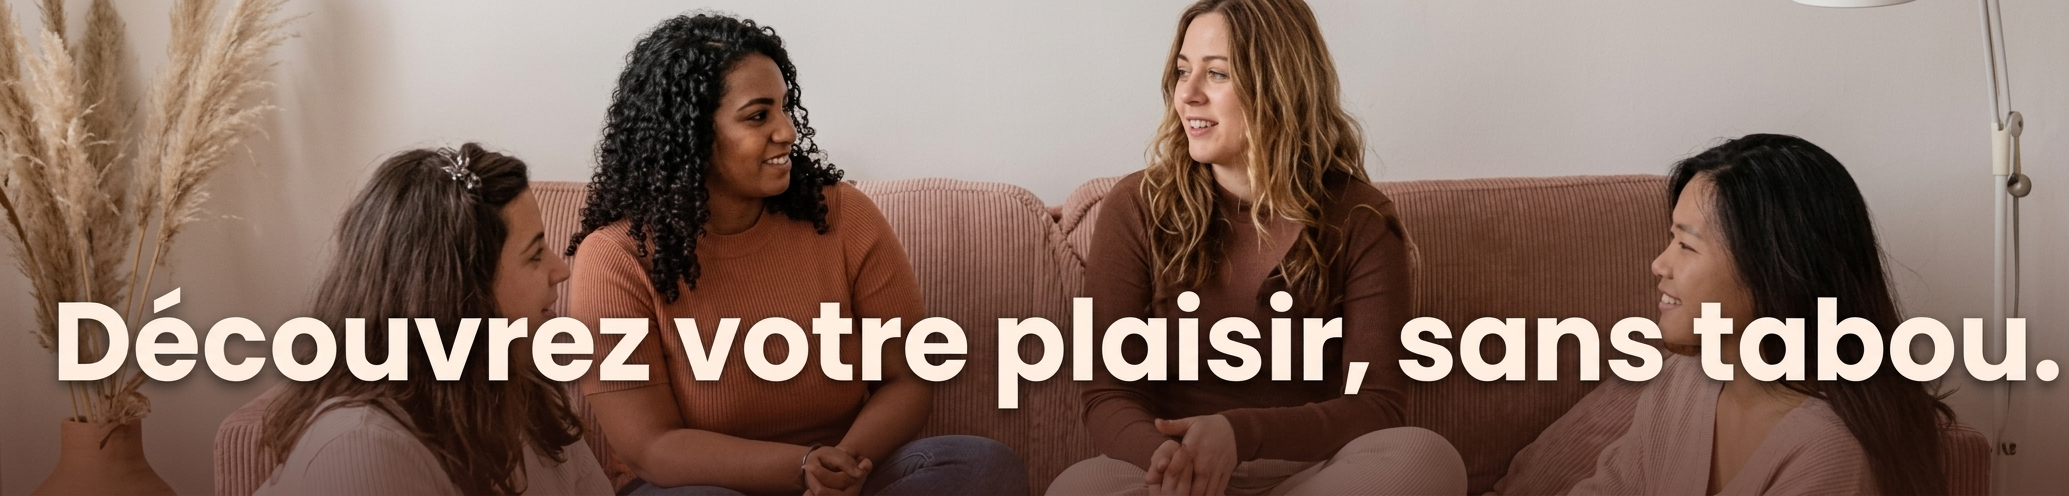
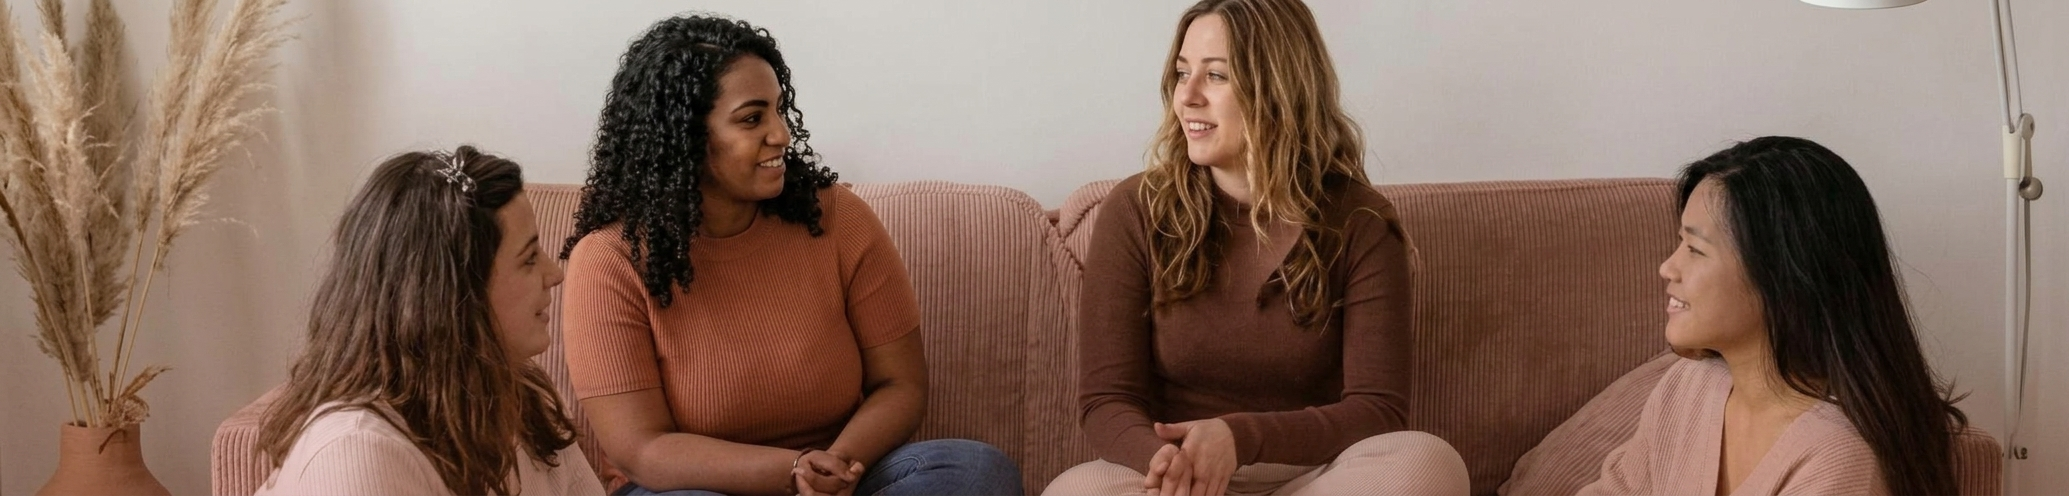
feat: update background color and improve hero section layout

diff --git a/src/app/page.js b/src/app/page.js
@@ -8,90 +8,168 @@ export default function Home() {
   const [isMenuOpen, setIsMenuOpen] = useState(false);
 
   return (
-    <div className="min-h-screen bg-creme text-chocolat font-sans selection:bg-terracotta selection:text-white">
+    <div className="min-h-screen text-chocolat font-sans selection:bg-terracotta selection:text-white">
       
-      {/* HEADER */}
-      <header className="bg-creme border-b border-terracotta/20 sticky top-0 z-50">
-        <div className="max-w-7xl mx-auto px-4 py-4 flex items-center justify-between">
+     {/* HEADER AVEC PREMIER LIEN ALIGNÉ SUR LA PHOTO DU HERO */}
+      <header className="bg-[#D8836A] text-white sticky top-0 z-50 transition-all duration-300">
+        <div className="max-w-7xl mx-auto px-4 py-5 flex items-center justify-between">
           
-          {/* Logo / Nom minimaliste dans le header */}
-          <Link href="/" className="text-xl font-extrabold text-chocolat tracking-tight">
-            {`JE NE JOUIS PAS`}<span className="text-terracotta">{`.`}</span>
-          </Link>
+          {/* Grille interne pour forcer l'alignement exact avec le Hero (3 cols à gauche pour le logo) */}
+          <div className="grid grid-cols-1 lg:grid-cols-12 w-full items-center gap-6">
+            
+            {/* Logo dans les 3 premières colonnes (aligné avec le titre "JE NE JOUIS PAS") */}
+            <div className="lg:col-span-3 flex justify-between lg:justify-start items-center">
+              <Link href="/" className="text-2xl md:text-3xl font-extrabold text-white tracking-tight font-display hover:opacity-90 transition">
+                {`JNJP`}<span className="text-chocolat">{`.`}</span>
+              </Link>
 
-          {/* Navigation Desktop */}
-          <nav className="hidden md:flex items-center space-x-8 text-sm font-medium text-chocolat">
-            <Link href="#articles" className="hover:text-terracotta transition">{`Articles`}</Link>
-            <Link href="#ressources" className="hover:text-terracotta transition">{`Ressources`}</Link>
-            <Link href="#communaute" className="hover:text-terracotta transition">{`Communauté`}</Link>
-            <Link href="#apropos" className="hover:text-terracotta transition">{`À Propos`}</Link>
-            <span className="cursor-pointer hover:text-terracotta transition flex items-center space-x-1">
-              <span>{`Recherche`}</span>
-              <Search className="w-3.5 h-3.5" />
-            </span>
-          </nav>
+              {/* Bouton Menu Mobile */}
+              <button 
+                className="lg:hidden text-white p-2"
+                onClick={() => setIsMenuOpen(!isMenuOpen)}
+                aria-label="Menu"
+              >
+                {isMenuOpen ? <X className="w-6 h-6" /> : <Menu className="w-6 h-6" />}
+              </button>
+            </div>
 
-          {/* Bouton Inscription */}
-          <div className="hidden md:flex items-center">
-            <button className="bg-terracotta hover:bg-[#A8533B] text-white text-sm px-6 py-2.5 rounded-full font-medium transition shadow-sm">
-              {`S'inscrire`}
-            </button>
+            {/* Navigation & Bouton dans les 9 colonnes suivantes (alignés avec la photo du Hero) */}
+            <div className="hidden lg:col-span-9 lg:flex items-center justify-between">
+              
+              {/* Navigation Desktop */}
+              <nav className="flex items-center space-x-12 text-sm font-medium text-white/90">
+                <Link href="#articles" className="hover:text-chocolat transition duration-200 tracking-wide">{`Articles`}</Link>
+                <Link href="#ressources" className="hover:text-chocolat transition duration-200 tracking-wide">{`Ressources`}</Link>
+                <Link href="#communaute" className="hover:text-chocolat transition duration-200 tracking-wide">{`Communauté`}</Link>
+                <Link href="#apropos" className="hover:text-chocolat transition duration-200 tracking-wide">{`À Propos`}</Link>
+                <span className="cursor-pointer hover:text-chocolat transition duration-200 flex items-center space-x-1.5 tracking-wide">
+                  <span>{`Recherche`}</span>
+                  <Search className="w-3.5 h-3.5" />
+                </span>
+              </nav>
+
+              {/* Bouton Inscription */}
+              <div>
+                <button className="bg-terracotta hover:bg-[#C86D51] text-white text-sm px-7 py-2.5 rounded-full font-semibold transition-all duration-300 transform hover:-translate-y-0.5 hover:shadow-lg active:translate-y-0 border border-white/20">
+                  {`S'inscrire`}
+                </button>
+              </div>
+
+            </div>
+
           </div>
 
-          {/* Bouton Menu Mobile */}
-          <button 
-            className="md:hidden text-chocolat p-2"
-            onClick={() => setIsMenuOpen(!isMenuOpen)}
-            aria-label="Menu"
-          >
-            {isMenuOpen ? <X className="w-6 h-6" /> : <Menu className="w-6 h-6" />}
-          </button>
         </div>
 
         {/* Menu Mobile */}
         {isMenuOpen && (
-          <div className="md:hidden bg-creme border-t border-terracotta/20 px-4 py-6 space-y-4 shadow-lg">
-            <Link href="#articles" className="block text-chocolat font-medium">{`Articles`}</Link>
-            <Link href="#ressources" className="block text-chocolat font-medium">{`Ressources`}</Link>
-            <Link href="#communaute" className="block text-chocolat font-medium">{`Communauté`}</Link>
-            <Link href="#apropos" className="block text-chocolat font-medium">{`À Propos`}</Link>
-            <button className="w-full bg-terracotta text-white py-2.5 rounded-full text-sm font-medium">
+          <div className="lg:hidden bg-[#D8836A] text-white px-6 py-6 space-y-4 shadow-lg border-t border-white/10">
+            <Link href="#articles" className="block text-white font-medium">{`Articles`}</Link>
+            <Link href="#ressources" className="block text-white font-medium">{`Ressources`}</Link>
+            <Link href="#communaute" className="block text-white font-medium">{`Communauté`}</Link>
+            <Link href="#apropos" className="block text-white font-medium">{`À Propos`}</Link>
+            <button className="w-full bg-terracotta hover:bg-[#C86D51] text-white py-3 rounded-full text-sm font-semibold transition">
               {`S'inscrire`}
             </button>
           </div>
         )}
       </header>
-
-      {/* SECTION HERO : TITRE MASSIF À GAUCHE + BANNIÈRE PHOTO À DROITE */}
+    {/* SECTION HERO : PHRASE POSITIONNÉE PLUS BAS DANS LA PHOTO */}
       <section className="max-w-7xl mx-auto px-4 py-8 md:py-12">
-        <div className="grid grid-cols-1 lg:grid-cols-12 gap-8 items-center">
+        <div className="grid grid-cols-1 lg:grid-cols-12 gap-6 items-center">
           
-          {/* Titre massif empilé sur 3 lignes (style maquette) */}
-<div className="lg:col-span-4 space-y-1">
-  <h1 className="text-5xl md:text-6xl lg:text-7xl font-bold text-terracotta leading-[0.9] tracking-tight font-display">
-    {`JE NE`}<br />
-    {`JOUIS`}<br />
-    {`PAS`}
-  </h1>
-</div>
-          {/* Grande bannière photo avec texte incrusté */}
-          <div className="lg:col-span-8 relative rounded-3xl overflow-hidden shadow-md h-64 md:h-80 flex items-center justify-center">
+          {/* Titre */}
+          <div className="lg:col-span-3 transition-all duration-700 ease-out transform translate-y-0 opacity-100 animate-in fade-in slide-in-from-bottom-4">
+            <h1 className="text-6xl sm:text-7xl lg:text-[11rem] xl:text-8xl font-bold text-terracotta leading-[0.85] tracking-tight font-display uppercase">
+              {`JE NE`}<br />
+              {`JOUIS PAS`}
+            </h1>
+          </div>
+
+          {/* Bannière photo avec la phrase alignée en bas (`items-end pb-8 sm:pb-12`) */}
+          <div className="lg:col-span-9 relative rounded-3xl overflow-hidden shadow-md h-80 sm:h-[400px] md:h-[500px] flex items-end justify-center group transition-all duration-1000 ease-out animate-in fade-in zoom-in-95">
             <img 
-              src="/women_talking.jpg" 
+              src="/women_bubble.jpg" 
               alt="Femmes bienveillantes" 
-              className="absolute inset-0 w-full h-full object-contain brightness-90"
+              className="absolute inset-0 w-full h-full object-cover object-[center_35%] transform group-hover:scale-105 transition-transform duration-700 ease-out"
             />
-            {/* Voile sombre chaleureux */}
-            <div className="absolute inset-0 bg-chocolat/15 backdrop-blur-[2px]"></div>
+            {/* Dégradé doux en bas pour faire ressortir le texte */}
+            <div className="absolute inset-0 bg-gradient-to-t from-chocolat/60 via-chocolat/10 to-transparent"></div>
             
-            <div className="relative z-10 text-center px-4">
-          
+            {/* Phrase placée plus bas */}
+            <div className="relative z-10 text-center px-6 pb-8 sm:pb-12 transform group-hover:scale-102 transition-transform duration-500">
+              <p className="text-white text-xl sm:text-2xl md:text-3xl font-bold tracking-wide drop-shadow-md font-display">
+                {`Découvrez votre plaisir, sans tabou.`}
+              </p>
             </div>
           </div>
 
         </div>
       </section>
+      {/* SECTION ARTICLES À LA UNE */}
+      <section className="max-w-7xl mx-auto px-4 py-12 md:py-16">
+        <div className="flex items-center justify-between mb-8">
+          <h2 className="text-3xl md:text-4xl font-bold text-chocolat font-display tracking-tight">
+            {`À la une`}
+          </h2>
+          <span className="text-sm font-semibold text-terracotta hover:text-chocolat transition cursor-pointer">
+            {`Voir tous les articles →`}
+          </span>
+        </div>
 
+        {/* Grille des articles */}
+        <div className="grid grid-cols-1 md:grid-cols-3 gap-8">
+          
+          {/* Article principal (occupe 2 colonnes) */}
+          <div className="md:col-span-2 group cursor-pointer">
+            <div className="relative rounded-3xl overflow-hidden shadow-md bg-white aspect-[16/9] mb-4">
+              <img 
+                src="/women_talking.jpg" 
+                alt="Article à la une" 
+                className="w-full h-full object-cover group-hover:scale-105 transition duration-500"
+              />
+              <div className="absolute top-4 left-4 bg-terracotta text-white text-xs font-semibold px-3 py-1 rounded-full uppercase tracking-wider">
+                {`Dossier`}
+              </div>
+            </div>
+            <p className="text-xs uppercase tracking-wider text-terracotta font-semibold mb-1">
+              {`Intimité & Parole • 5 min de lecture`}
+            </p>
+            <h3 className="text-2xl md:text-3xl font-bold text-chocolat group-hover:text-terracotta transition font-display">
+              {`Pourquoi 70% des femmes ne jouissent pas par pénétration : brisons les mythes`}
+            </h3>
+            <p className="text-chocolat/80 text-sm mt-2 line-clamp-2">
+              {`Focus anatomique et culturel sur le plaisir féminin au-delà des schémas traditionnels de la performance.`}
+            </p>
+          </div>
+
+          {/* Article secondaire (occupe 1 colonne) */}
+          <div className="group cursor-pointer flex flex-col justify-between">
+            <div>
+              <div className="relative rounded-3xl overflow-hidden shadow-md bg-white aspect-[4/3] mb-4">
+                <img 
+                  src="/women_talking.jpg" 
+                  alt="Article secondaire" 
+                  className="w-full h-full object-cover group-hover:scale-105 transition duration-500"
+                />
+                <div className="absolute top-4 left-4 bg-chocolat text-creme text-xs font-semibold px-3 py-1 rounded-full uppercase tracking-wider">
+                  {`Témoignage`}
+                </div>
+              </div>
+              <p className="text-xs uppercase tracking-wider text-terracotta font-semibold mb-1">
+                {`Récit • 3 min de lecture`}
+              </p>
+              <h3 className="text-xl font-bold text-chocolat group-hover:text-terracotta transition font-display">
+                {`"J'ai apprivoisé mon corps à 30 ans passés"`}
+              </h3>
+              <p className="text-chocolat/80 text-sm mt-2 line-clamp-2">
+                {`Le parcours libérateur d'une femme qui a réécrit son rapport à l'intime et au lâcher-prise.`}
+              </p>
+            </div>
+          </div>
+
+        </div>
+      </section>
       {/* CONTENU PRINCIPAL EN GRILLE */}
       <main className="max-w-7xl mx-auto px-4 pb-20">
         <div className="grid grid-cols-1 lg:grid-cols-12 gap-8">

diff --git a/src/app/globals.css b/src/app/globals.css
@@ -9,7 +9,7 @@
 }
 
 :root {
-  --background: #FAF4EF;
+  --background: #FFFFFF;
   --foreground: #3A2521;
 }
 
